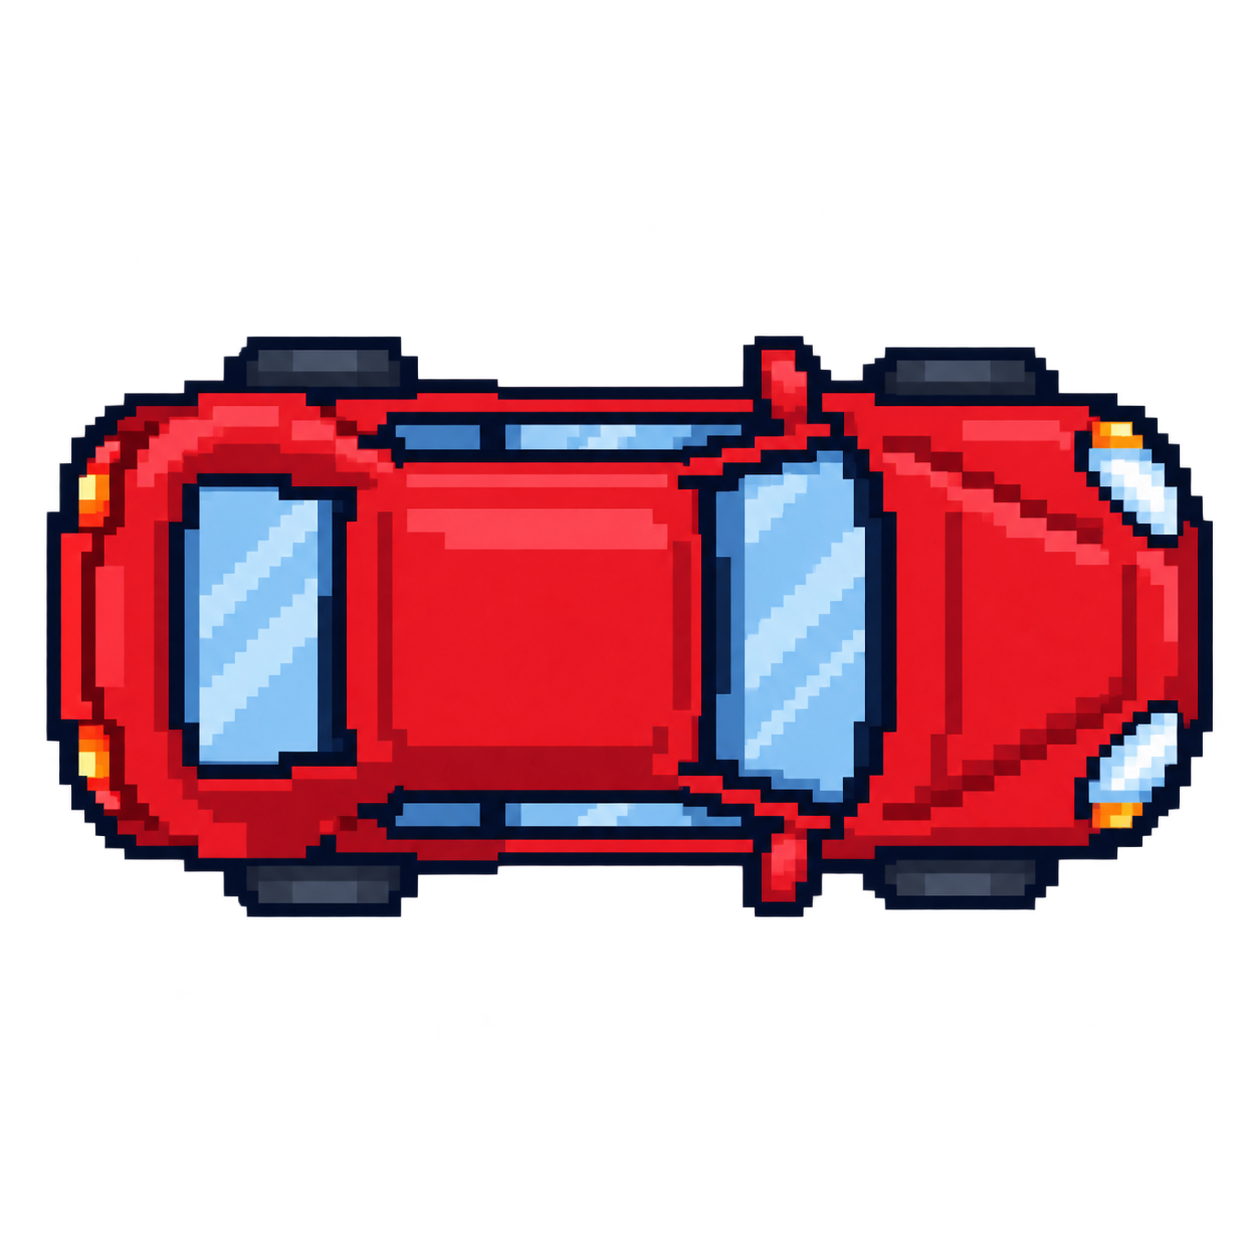
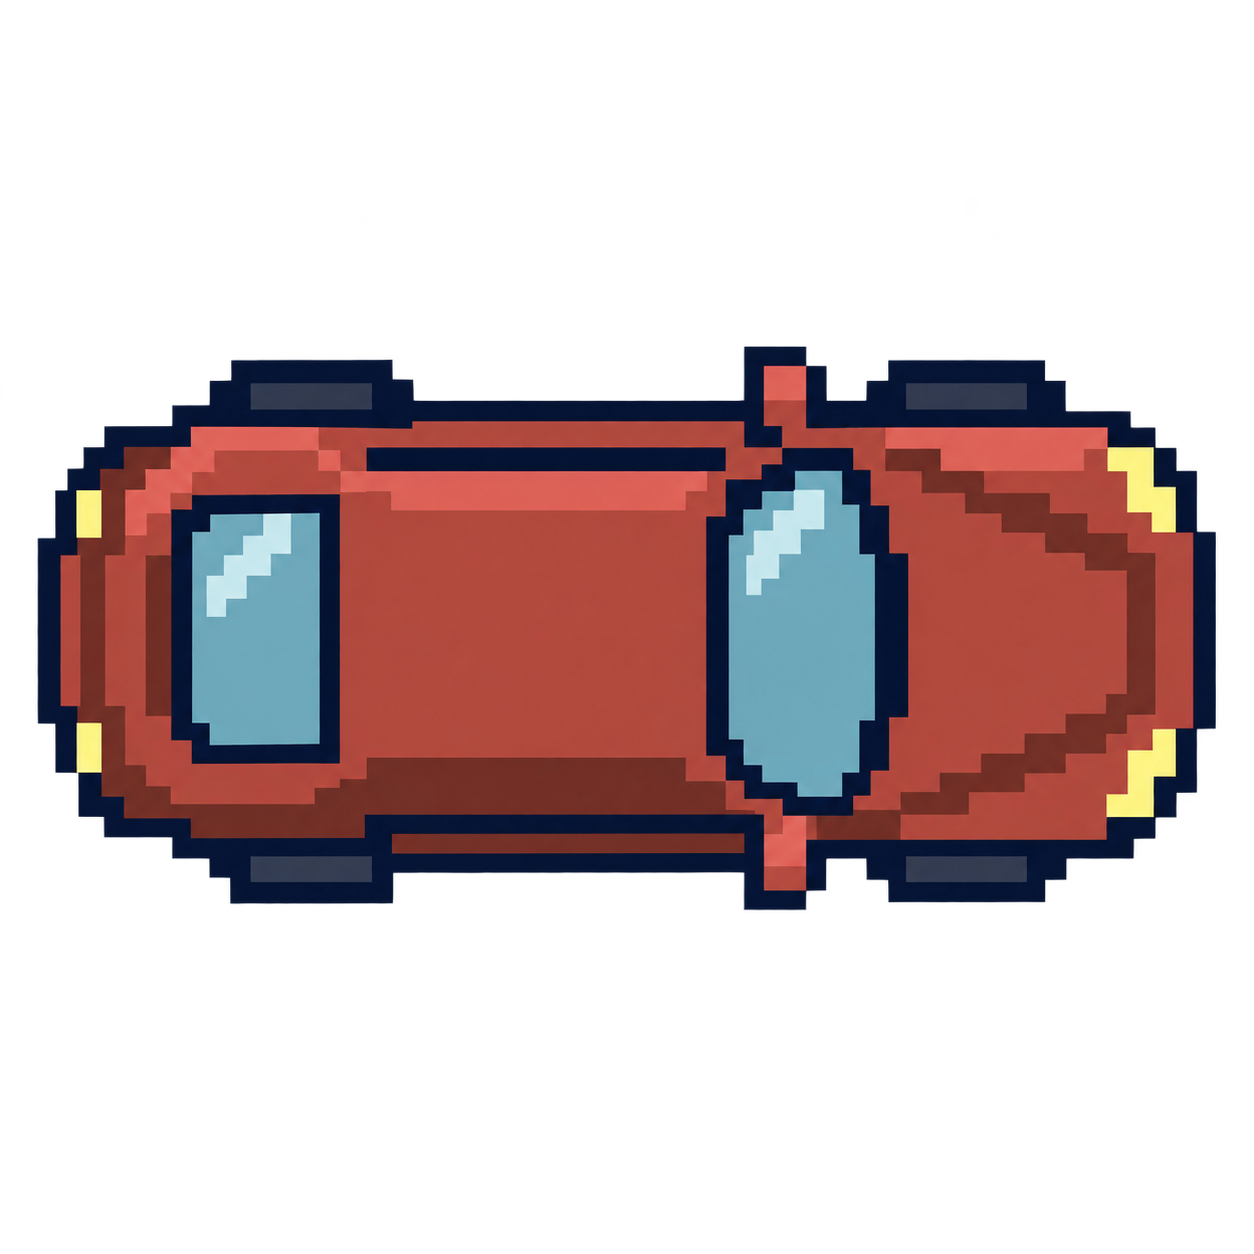
Refine retro cars, shop bottles and police flashes
Add slender bottles with shade from their own hue.
Simplify both car sprites into larger color blocks.
Make the two roof-light frames opaque and saturated.
Update art prompts, README and class-map descriptions.

Validation: 37 tests pass; build has no warnings.
GPU frames confirm blue/red/blue at 0/250/500 ms.

diff --git a/Docs/ClassMap.html b/Docs/ClassMap.html
@@ -30,7 +30,9 @@ przedłuża wstecz po najstarszej stycznej, bez przesuwania istniejących aut.</
 <li><strong>Radiowozy:</strong> GameScene.LoadContent wczytuje car.png i police-car.png.
 CarConvoy.Draw wybiera czerwone auto dla indeksu 0, a radiowóz dla każdego segmentu ogona.
 PoliceLightbar rysuje belkę na dachu radiowozu, w lokalnym punkcie (−6, 0).
-Dwa stany świateł — niebieski i czerwony — zmieniają się co 250 ms według RenderTime.
+Dwa stany świateł — jaskrawoniebieski (#2068FF) i czerwony (#FF3030) — zmieniają się
+co 250 ms według RenderTime. Dwie nieprzezroczyste lampy 8×12 mają małe refleksy 2×2,
+a czarna oprawa 10×28 oddziela je od jasnego dachu. Kolor nie ginie w białych środkach i półprzezroczystej poświacie.
 Światła używają środka po uniesieniu, obrotu z falowaniem oraz wspólnej skali terenu i podskoku.
 Pauza i koniec gry zamrażają klatkę, a RETRY resetuje czas do niebieskiej.
 Zmiana wyglądu ogona nie zmienia śladu ruchu, odstępów ani kolizji.</li>
@@ -113,7 +115,7 @@ które zwalnia teksturę PoliceLightbar; DuiGame zwalnia bufor RetroRenderer, a 
 <tr id="AnimatedSprite"><td><a href="../DUI.Game/Framework/Graphics/AnimatedSprite.cs">AnimatedSprite</a></td><td>Przesuwa aktualną klatkę animacji na podstawie GameTime.</td></tr>
 <tr id="Animation"><td><a href="../DUI.Game/Framework/Graphics/Animation.cs">Animation</a></td><td>Lista klatek atlasu i czas każdej klatki.</td></tr>
 <tr id="GameDisplay"><td><a href="../DUI.Game/Framework/Graphics/GameDisplay.cs">GameDisplay</a></td><td>Określa planszę i raster 1280×720 oraz logiczny układ UI 320×180 przy zoomie 4. Resize dopasowuje OutputBounds do całego okna, osobno w obu osiach; ScreenToRaster mapuje kursor Gum, a ToGamePosition gesty na planszę. Małe okna są pomniejszane.</td></tr>
-<tr id="C64Palette"><td><a href="../DUI.Game/Framework/Graphics/C64Palette.cs">C64Palette</a></td><td>16 kolorów Pepto PAL w kolejności VIC-II. Udostępnia kolory świateł PoliceLightbar; inspiruje barwy grafik, lecz nie ogranicza kolorów całej klatki.</td></tr>
+<tr id="C64Palette"><td><a href="../DUI.Game/Framework/Graphics/C64Palette.cs">C64Palette</a></td><td>16 kolorów Pepto PAL w kolejności VIC-II. Udostępnia czerń oprawy i biel małych refleksów PoliceLightbar; inspiruje barwy grafik, lecz nie ogranicza kolorów całej klatki ani jaskrawych kolorów błysku.</td></tr>
 <tr id="RetroRenderer"><td><a href="../DUI.Game/Framework/Graphics/RetroRenderer.cs">RetroRenderer</a></td><td>Posiada jeden RenderTarget2D 1280×720. BeginFrame czyści bufor sceny; Present skaluje kompletną scenę i UI przez PointClamp. Zachowuje kolory i szczegóły grafik bez shadera palety lub ditheringu. Dispose zwalnia bufor.</td></tr>
 <tr id="Sprite"><td><a href="../DUI.Game/Framework/Graphics/Sprite.cs">Sprite</a></td><td>Parametry rysowania regionu tekstury: pozycja, skala, obrót, kolor i warstwa.</td></tr>
 <tr id="TextureAtlas"><td><a href="../DUI.Game/Framework/Graphics/TextureAtlas.cs">TextureAtlas</a></td><td>Wczytuje definicję XML, teksturę, regiony i animacje; tworzy sprite’y.</td></tr>
@@ -133,7 +135,7 @@ które zwalnia teksturę PoliceLightbar; DuiGame zwalnia bufor RetroRenderer, a 
 <tr id="CarSway"><td><a href="../DUI.Game/GameObjects/CarSway.cs">CarSway</a></td><td>Czysta funkcja CarPose → CarPose dodająca wizualne przesunięcie ±1,5 px i obrót ±2°. Faza zależy od drogi, więc segment powtarza falowanie głowy; okres odpowiada 1,2 s. Nie zmienia modelu ani kolizji.</td></tr>
 <tr id="Easings"><td><a href="../DUI.Game/Framework/Easings.cs">Easings</a></td><td>31 statycznych funkcji float → float: Linear i 30 krzywych z easings.net. Postęp wejściowy 0–1; Back i Elastic zachowują wychylenia poza ten zakres. EaseInOutSine wygładza orientację aut, a EaseOutCubic i EaseInQuad sterują wybiciem i lądowaniem.</td></tr>
 <tr id="CarConvoy"><td><a href="../DUI.Game/GameObjects/CarConvoy.cs">CarConvoy</a></td><td>Łączy ConvoyMovement z renderowaniem i ParkingLot. Posiada stan CarHop oraz poprzednią pozę każdego auta. Po każdym podkroku aktualizuje podskoki i sprawdza ogrodzenie i bramę przez ParkingGeometry na podstawie środka oraz obrotu głowy. Draw pobiera interpolowaną pozę, dodaje CarSway, skalę trawnika i podskok. Indeks 0 rysuje autem gracza, pozostałe radiowozem ze światłami PoliceLightbar. Dispose zwalnia zasób belki; tekstury samochodów należą do ContentManager. Przekazuje BodyCollision i BoundaryCollision do sceny; GetBounds zachowuje promień 40 px dla zbierania butelek.</td></tr>
-<tr id="PoliceLightbar"><td><a href="../DUI.Game/GameObjects/PoliceLightbar.cs">PoliceLightbar</a></td><td>Rysuje pikselową belkę świetlną w lokalnych współrzędnych radiowozu. Dokładnie dwie klatki w kolorach C64Palette.LightBlue i LightRed po 250 ms, wyznaczane z RenderTime modelu. Współdzieli obrót, skalę i uniesienie auta. Posiada teksturę jednego białego piksela; CarConvoy.Dispose ją zwalnia.</td></tr>
+<tr id="PoliceLightbar"><td><a href="../DUI.Game/GameObjects/PoliceLightbar.cs">PoliceLightbar</a></td><td>Rysuje pikselową belkę świetlną w lokalnych współrzędnych radiowozu. Dokładnie dwie klatki po 250 ms: nieprzezroczyste lampy 8×12 w jaskrawym niebieskim lub czerwonym kolorze, z refleksem 2×2. C64Palette dostarcza czerń oprawy i biel refleksu. Klatka zależy od RenderTime modelu. Współdzieli obrót, skalę i uniesienie auta. Posiada teksturę jednego białego piksela; CarConvoy.Dispose ją zwalnia.</td></tr>
 <tr id="ParkingLot"><td><a href="../DUI.Game/GameObjects/ParkingLot.cs">ParkingLot</a></td><td>Posiada Tilemap z c64-parking-atlas, witrynę c64-storefront, regiony ogrodzenia i geometrię dwóch wysp trawy. DrawFenceCorners składa lustrzane narożniki z poziomego półprzęsła, pionowego odcinka i kątownika. Ustala kafelek 80×80, początek gry oraz ParkingGeometry; udostępnia DrivingBounds i BottleBounds. GrassIslands udostępnia nieedytowalny widok prostokątów dla CarHop; GetCarScale oblicza powiększenie terenu do 106%.</td></tr>
 <tr id="ParkingGeometry"><td><a href="../DUI.Game/GameObjects/ParkingGeometry.cs">ParkingGeometry</a></td><td>Geometria kolizji zgodna z grafiką parkingu w skali kafelka 80×80. DrivingBounds sięga do wewnętrznych krawędzi płotu; GateBounds opisuje wysuniętą zamkniętą bramę. IntersectsBoundary sprawdza oba obszary przez ConvoyCollision. BottleBounds wyznacza prostokątny obszar odbić i odrodzeń butelek, kończący się przed bramą.</td></tr>
 <tr id="ConvoyMovement"><td><a href="../DUI.Game/GameObjects/ConvoyMovement.cs">ConvoyMovement</a></td><td>Model płynnej jazdy: 400 px/s, skręt 90° w 160 ms przez EaseInOutSine, dwa oczekujące kierunki. Podkroki 5 ms, zachowanie reszty czasu i interpolacja obrazu. Cars udostępnia aktualne CarPose, GetRenderPose pozy do rysowania. Auta odtwarzają ślad w odstępach 80 px. Stepped synchronizuje teren i granice, BodyCollision zatrzymuje symulację. Stop przerywa także pozostałą część aktualizacji.</td></tr>
@@ -148,8 +150,9 @@ które zwalnia teksturę PoliceLightbar; DuiGame zwalnia bufor RetroRenderer, a 
 <h2>Zasoby samochodów</h2>
 <p>Gracz używa <a href="../DUI.Game/Content/Images/car.png">car.png</a>, a ogon
 <a href="../DUI.Game/Content/Images/police-car.png">police-car.png</a>.
-Wariant radiowozu powstał przez edycję oryginalnego sprite’a wbudowanym image_gen;
-zachowuje rozmiar, orientację i przezroczyste tło. Światła nie są zapisane w teksturze:
+Oba sprite’y uproszczono wbudowanym image_gen do dużych plam koloru, prostych szyb
+i pojedynczych refleksów w klimacie C64. Radiowóz ma srebrno-niebieskie panele
+bez drobnego napisu. Zachowują rozmiar, orientację w prawo i przezroczyste tło. Światła nie są zapisane w teksturze:
 PoliceLightbar nakłada na pusty dach animację z dwóch stanów.
 Pełny prompt i źródło referencyjne są w <a href="AssetPrompts.json">AssetPrompts.json</a>.</p>
 <h2>Zasoby parkingu</h2>
@@ -161,8 +164,10 @@ odstęp 8 i początek (4,4), co pomija linie podziału arkusza.
 <a href="../DUI.Game/Content/Images/c64-storefront.png">Witryna C64</a> pokrywa dwa górne rzędy,
 a atlas.png nadal obsługuje font i UI. Kafelki są widoczne jako 80×80 pikseli,
 a witryna jako 1280×160. Tekstury zachowują swoje kolory bez redukcji palety. Szachownice 2×2 z dwóch kolorów oraz rzadsze pikselowe akcenty
-stanowią część materiałów i cieni w teksturach. Boczne krawędzie butelek w witrynie
-mają co drugi piksel ciemniejszy; środek sylwetki pozostaje jednolity. Oba warianty powstały przez edycję
+stanowią część materiałów i cieni w teksturach. Na każdej z czterech półek stoi 12 smukłych butelek, łącznie 48. Ich boczne krawędzie
+mają co drugi piksel w ciemniejszym odcieniu tego samego koloru, bez czarnych wcięć;
+środek sylwetki pozostaje jednolity. Wąskie sylwetki w źródle uwzględniają
+różne skale poziomą i pionową witryny w grze. Oba warianty powstały przez edycję
 wbudowanym image_gen; oryginały pozostają materiałem źródłowym.
 Narożniki korzystają z górnych 100 wierszy kafelka 10 i prawej połowy
 kafelka 12. Oba fragmenty zachowują skalę atlasu, więc szyny i wzór siatki

diff --git a/DUI.Game/GameObjects/PoliceLightbar.cs b/DUI.Game/GameObjects/PoliceLightbar.cs
@@ -24,23 +24,22 @@ internal sealed class PoliceLightbar : IDisposable
         // the lights, while retry resets them. There are exactly two frames.
         const long frameTicks = 250 * TimeSpan.TicksPerMillisecond;
         bool blueFrame = renderTime.Ticks / frameTicks % 2 == 0;
-        Color lightColor = blueFrame ? C64Palette.LightBlue : C64Palette.LightRed;
+        // Saturated, opaque blocks keep the two frames distinct at gameplay size.
+        // Pale palette colors and large white cores made the old lamps look static.
+        Color lightColor = blueFrame ? new(32, 104, 255) : new(255, 48, 48);
         Vector2 forward = new(MathF.Cos(rotation), MathF.Sin(rotation));
         Vector2 side = new(-forward.Y, forward.X);
 
-        DrawBlock(s_roofCenter, new(8, 24), new(12, 22, 40));
-        DrawBlock(s_roofCenter, new(6, 22), new(150, 179, 200));
+        DrawBlock(s_roofCenter, new(10, 28), C64Palette.Black);
+        DrawBlock(s_roofCenter, new(8, 26), new(68, 68, 68));
         DrawLamp(-7f);
         DrawLamp(7f);
 
         void DrawLamp(float offsetY)
         {
             Vector2 position = s_roofCenter + new Vector2(0, offsetY);
-            // Straight alpha matches GameScene's NonPremultiplied blend.
-            DrawBlock(position, new(13, 14), new(lightColor, 45));
-            DrawBlock(position, new(9, 10), new(lightColor, 100));
-            DrawBlock(position, new(5, 8), lightColor);
-            DrawBlock(position, new(2, 5), C64Palette.White);
+            DrawBlock(position, new(8, 12), lightColor);
+            DrawBlock(position + new Vector2(-2, -3), new(2, 2), C64Palette.White);
         }
 
         void DrawBlock(Vector2 localPosition, Vector2 size, Color color)

diff --git a/README.md b/README.md
@@ -34,12 +34,15 @@ kolizji pozostają w jednostkach planszy.
 
 Retro wygląd tworzą same grafiki: uproszczone kształty, pikselowy font,
 kolory inspirowane C64 i wybrane dwukolorowe wzory w cieniach.
-Boki butelek w witrynie mają naprzemienne ciemniejsze piksele, a ich
-środki pozostają jednolite. Wzory są częścią tekstur; ekran nie nakłada
+W witrynie stoi po 12 smukłych butelek na każdej z czterech półek.
+Ich boki mają naprzemienne ciemniejsze odcienie tego samego koloru,
+bez czarnych wcięć; środki pozostają jednolite. Auta mają duże plamy
+koloru, proste szyby i pojedyncze refleksy, bez drobnych napisów i detali.
+Wzory są częścią tekstur; ekran nie nakłada
 ditheringu ani nie ogranicza całej klatki do 16 kolorów. Oryginalne odcienie
 tekstur, przezroczystość i wygaszanie podczas pauzy zachowują szczegóły.
-`C64Palette` pozostaje zestawem kolorów świateł radiowozów, opartym na
-[Pepto PAL używanym przez VICE](https://raw.githubusercontent.com/VICE-Team/svn-mirror/main/vice/data/C64/pepto-pal.vpl).
+`C64Palette` dostarcza czerń oprawy i biel małych refleksów belki z palety
+[Pepto PAL używanej przez VICE](https://raw.githubusercontent.com/VICE-Team/svn-mirror/main/vice/data/C64/pepto-pal.vpl).
 
 UI ma układ logiczny 320×180 i zoom 4, rysowany bezpośrednio w buforze
 720p. Napisy zachowują czytelną wielkość i szczegóły fontu bez pośredniego
@@ -59,7 +62,9 @@ pomniejszania do 200 wierszy.
   jednostek wzdłuż drogi. Nowe auto pojawia się za ogonem, bez przesuwania
   pozostałych. Symulacja używa podkroków 5 ms i interpolacji obrazu.
 - Każdy segment ogona jest srebrno-niebieskim radiowozem. Światła na dachu
-  mają dwa stany: niebieski i czerwony, zmieniane co 250 ms. Belka obraca się,
+  mają dwa stany: jaskrawoniebieski i czerwony, zmieniane co 250 ms.
+  Lampy są nieprzezroczystymi blokami 8×12 z małym białym refleksem,
+  więc kolor błysku pozostaje wyraźny. Belka obraca się,
   skaluje i podskakuje razem z autem. Pauza i koniec gry zamrażają światła,
   a RETRY zaczyna od stanu niebieskiego. Auto gracza pozostaje czerwone.
 - Delikatne falowanie ma amplitudę ±1,5 jednostki i ±2°, z okresem 1,2 s.
@@ -204,8 +209,9 @@ Grafiki [samochodu](DUI.Game/Content/Images/car.png) i
 [butelki](DUI.Game/Content/Images/beer-bottle.png) wygenerowano narzędziem
 `image_gen` z przezroczystym tłem. Pełne prompty: [AssetPrompts.json](Docs/AssetPrompts.json).
 [Grafika radiowozu](DUI.Game/Content/Images/police-car.png) to wariant
-oryginalnego auta wygenerowany wbudowanym `image_gen`, z zachowaniem sylwetki
-i przezroczystości. Dach jest pusty w teksturze; światła rysuje kod gry.
+uproszczonego auta wygenerowany wbudowanym `image_gen`, z zachowaniem
+sylwetki, orientacji i przezroczystości. Oba auta mają mniej detali,
+większe bloki koloru oraz prostsze szyby w klimacie C64. Dach jest pusty w teksturze; światła rysuje kod gry.
 
 Aktywny [atlas parkingu C64](DUI.Game/Content/Images/c64-parking-atlas.png) zawiera
 16 kafelków asfaltu, linii, krawężników, trawy, siatki i bramy.
